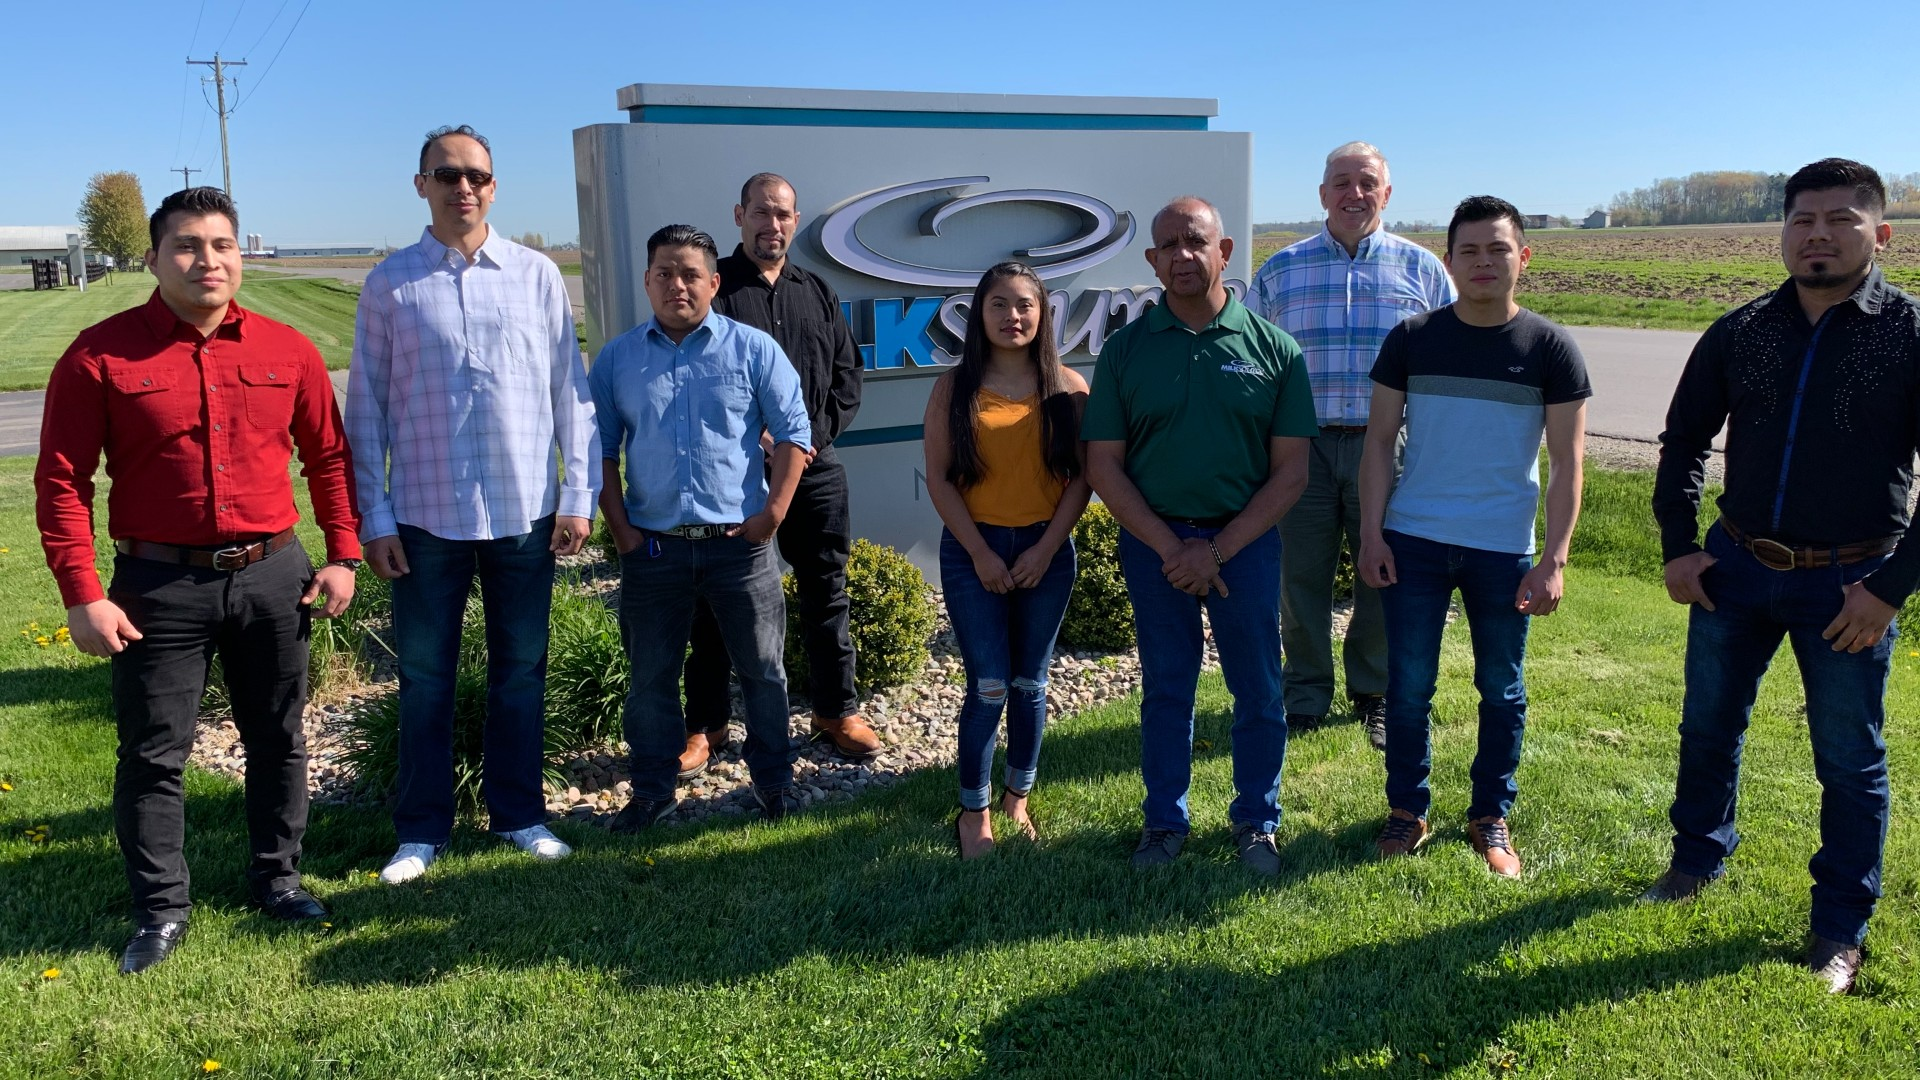
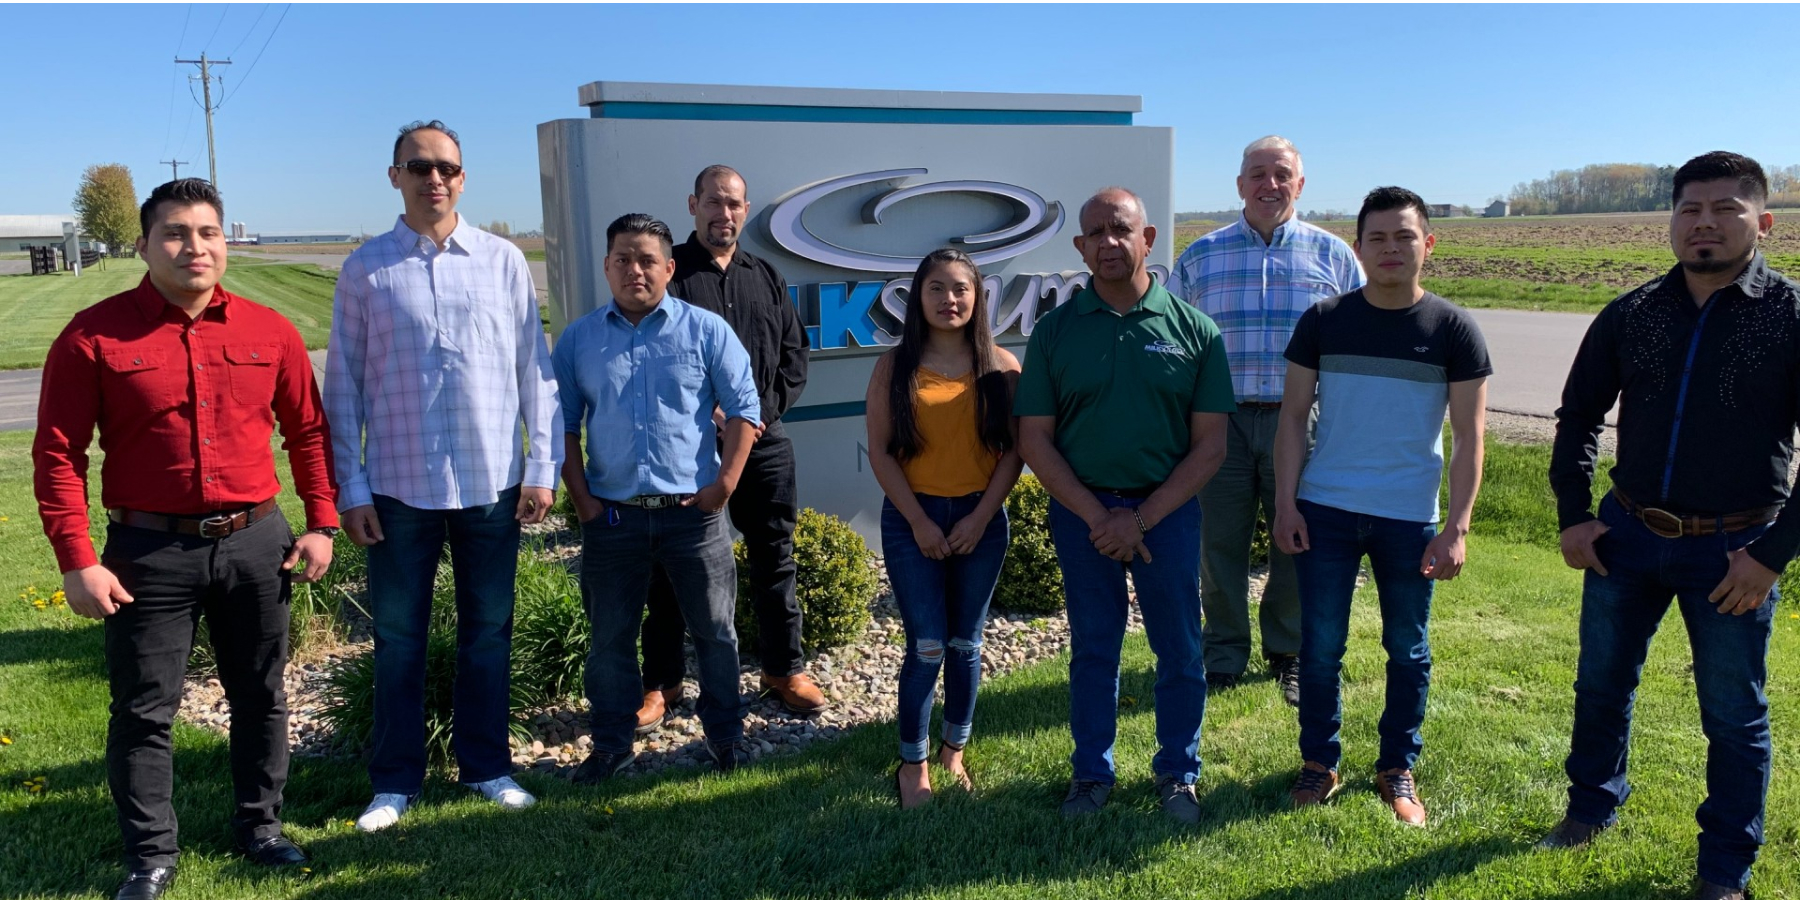
More image resizing and optimizing

diff --git a/layouts/careers/list.html b/layouts/careers/list.html
@@ -21,7 +21,7 @@
                         <div class="position__content-inner flow">
                             <p class="fs-100 max-width-none">{{ .Params.SEO.meta_description }}</p>
                             <a href="{{ .Permalink }}" class="btn btn--primary card__link card__read-more flex flex-center">View Job Listing</a>
-                            <p class="max-width-none flex flex-justify-between">{{ upper .Params.location.city }}, {{ upper .Params.location.state }} | {{ upper .Params.status }}<span>POSTED ON: {{ .Params.date.Format "January 2, 2006" }}</span></p>
+                            <p class="max-width-none flex flex-justify-between">{{ upper .Params.location.city }}, {{ upper .Params.location.state }} | {{ upper .Params.job_type }}<span>POSTED ON: {{ .Params.date.Format "January 2, 2006" }}</span></p>
                         </div>
                     </div>
                 </li>

diff --git a/assets/scss/components/_hero.scss b/assets/scss/components/_hero.scss
@@ -14,7 +14,6 @@
     img {
       height: 100%;
       object-fit: cover;
-      object-position: 0px 0px;
     }
   }
 

diff --git a/content/_index.md b/content/_index.md
@@ -69,7 +69,7 @@ hero_slider:
         open_in_new_tab: false
       image:
         enabled: false
-        image_url: /uploads/leadership-class.jpg
+        image_url: /uploads/leadership-class-2.jpg
         image_alt: Horses and dogs together in pasture at Whistler's Run
 intro:
   enabled: true
@@ -125,6 +125,6 @@ cta:
     button_text: View open positions
     open_in_new_tab: false
   image:
-    image_url: /uploads/leadership-class.jpg
-    image_alt: Corn harvester
+    image_url: /uploads/leadership-class-2.jpg
+    image_alt: Leadership class
 ---

diff --git a/content/sustainability/community-relations.md b/content/sustainability/community-relations.md
@@ -8,7 +8,7 @@ hero:
   heading: Community Relations
   body: Working with (and for) our neighbors
   image:
-    image_url: /uploads/environmental-management-systems-2.jpg
+    image_url: /uploads/timber-rattlers-udder-tuggers.jpg
     image_alt:
 cta:
   enabled: true

diff --git a/content/sustainability/ecosystem-and-wildlife-protection.md b/content/sustainability/ecosystem-and-wildlife-protection.md
@@ -8,7 +8,7 @@ hero:
   heading: Ecosystem and Wildlife Protection
   body: Preservation and Protection
   image:
-    image_url: /uploads/corn-harvester.jpg
+    image_url: /uploads/corn-harvester-2.jpg
     image_alt: 
 cta_block:
   enabled: true

diff --git a/content/sustainability/integrated-waste-management.md b/content/sustainability/integrated-waste-management.md
@@ -8,7 +8,7 @@ hero:
   heading: Integrated Waste Management
   body: The Original Recycler
   image:
-    image_url: /uploads/corn-harvester.jpg
+    image_url: /uploads/corn-harvester-2.jpg
     image_alt:
 cta_block:
   enabled: true

diff --git a/content/careers/_index.md b/content/careers/_index.md
@@ -16,7 +16,7 @@ hero:
   heading: Careers
   body: 
   image:
-    image_url: /uploads/leadership-class.jpg
+    image_url: /uploads/leadership-class-2.jpg
     image_alt: 
 intro:
   enabled: true
